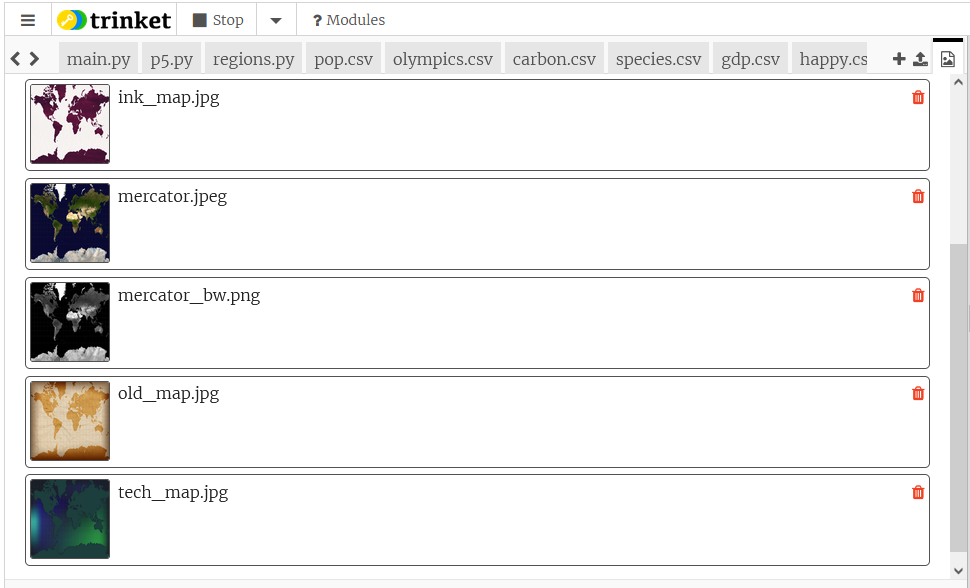
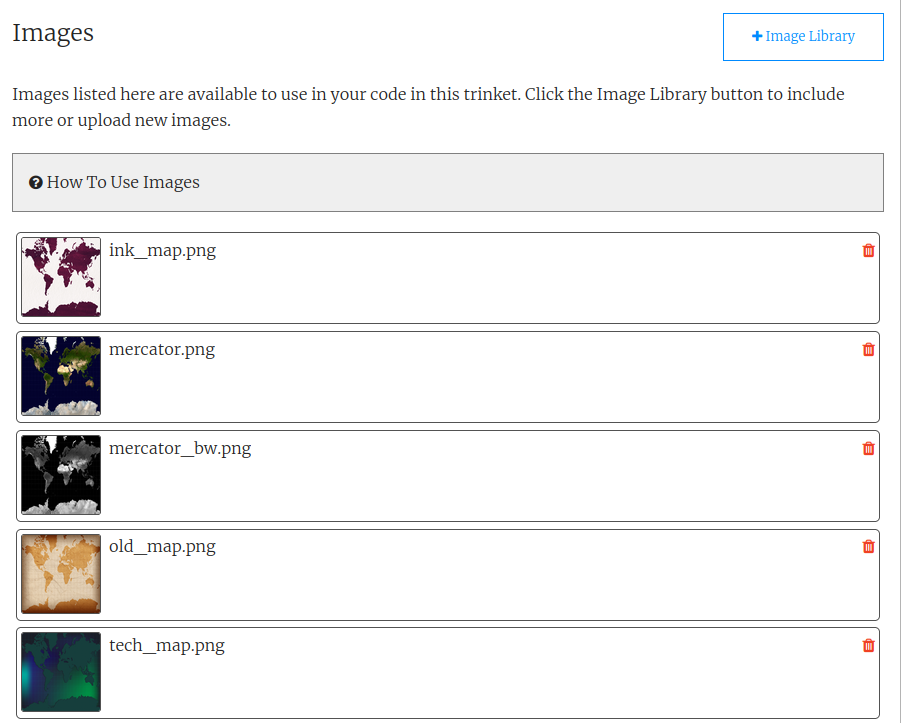
update

Changed region(s): [[0.0, 0.0, 1.0, 1.0]]

diff --git a/en/step_4.md b/en/step_4.md
@@ -51,7 +51,7 @@ line_highlights: 12-13
 def setup():
 # Put code to run once here
   size(991, 768)
-  map = load_image('map.jpeg') # Replace with your image
+  map = load_image('map.png') # Replace with your image
   image(
     map, # The image to draw
     0, # The x of the top-left corner

diff --git a/en/step_1.md b/en/step_1.md
@@ -11,7 +11,7 @@ You will:
 
 --- no-print ---
 
---- task ---  
+--- task ---
 
 ### Play ▶
 
